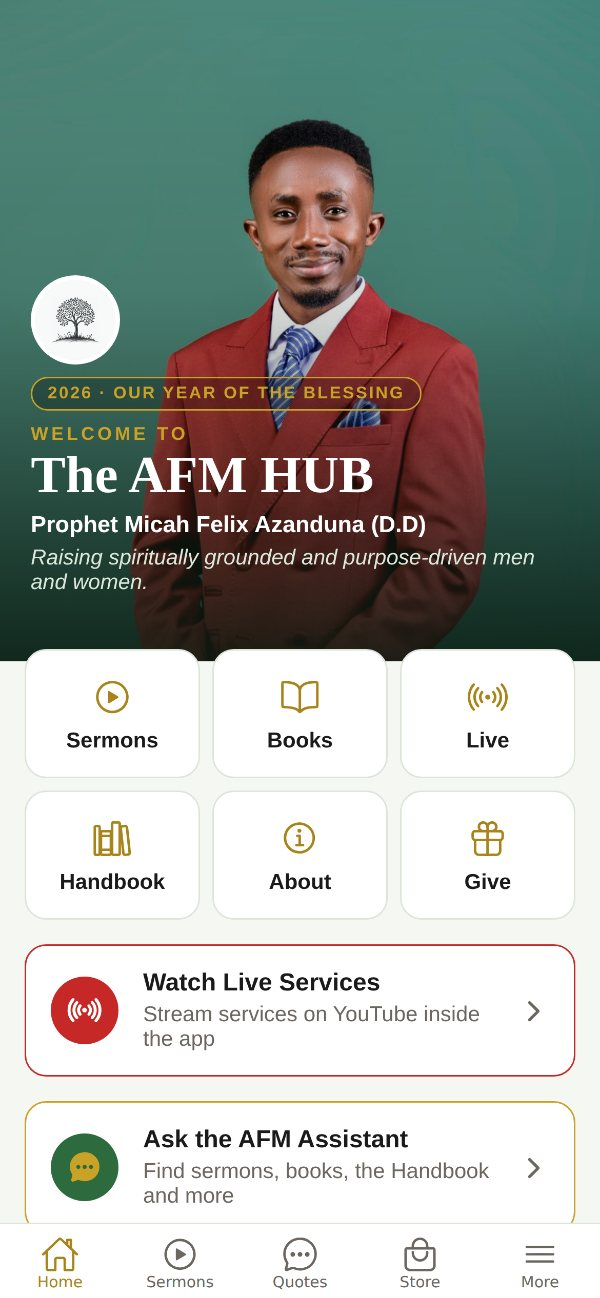
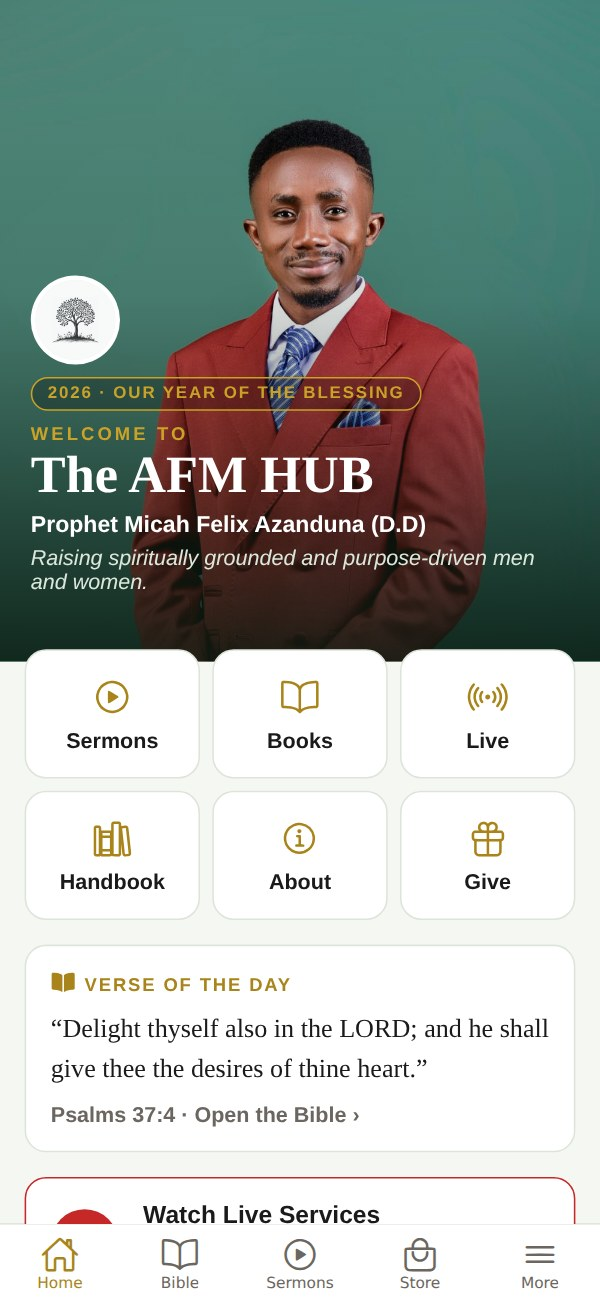
Website: current app screenshot with the Bible tab and Verse of the Day

diff --git a/index.html b/index.html
@@ -635,7 +635,7 @@
         </div>
       </div>
       <div class="side">
-        <div class="phone"><img src="app.jpg" alt="The AFM HUB app home screen"></div>
+        <div class="phone"><img src="app.jpg?v=bible" alt="The AFM HUB app home screen, with the Verse of the Day and the Bible tab"></div>
         <div class="qr"><img src="qr.svg?v=play" alt="QR code to get The AFM HUB on Google Play">SCAN · GOOGLE PLAY</div>
       </div>
     </div>
